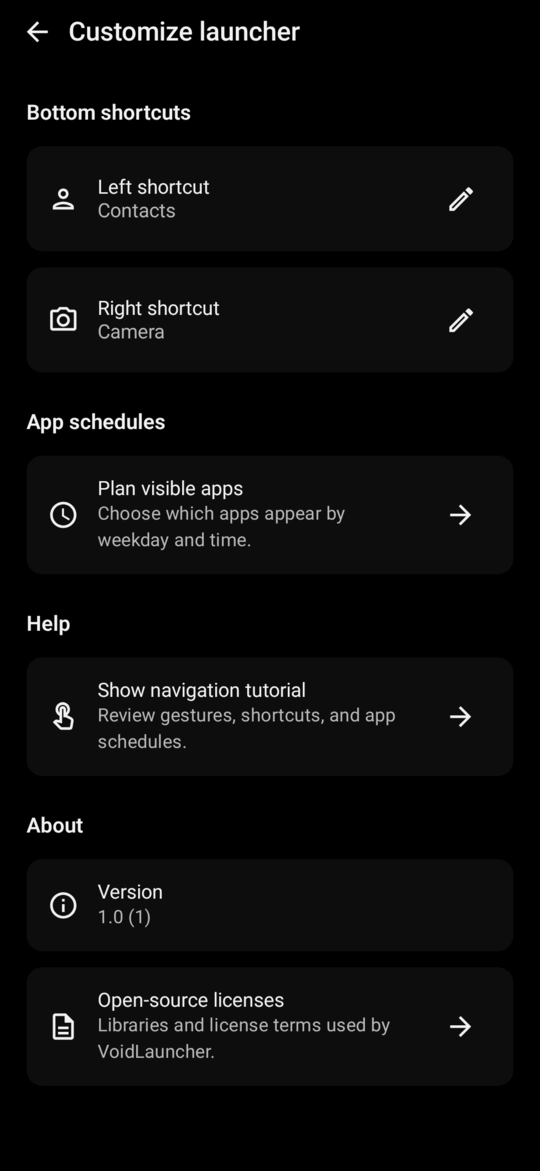
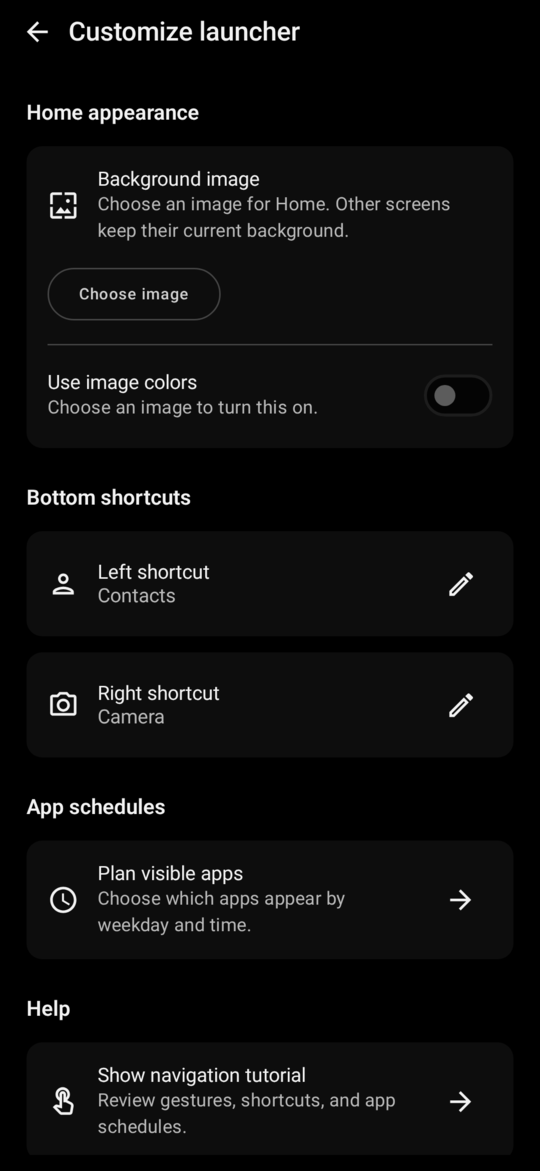
refactor: document current launcher architecture

diff --git a/README.md b/README.md
@@ -21,13 +21,13 @@
     <td width="25%"><img src="docs/images/readme/home.png" alt="VoidLauncher Home with chosen apps, search, and bottom shortcuts"></td>
     <td width="25%"><img src="docs/images/readme/drawer.png" alt="VoidLauncher app drawer with filtering and an alphabet rail"></td>
     <td width="25%"><img src="docs/images/readme/schedule.png" alt="VoidLauncher schedule editor with weekdays and a time range"></td>
-    <td width="25%"><img src="docs/images/readme/customize.png" alt="VoidLauncher customization screen with shortcuts and app schedules"></td>
+    <td width="25%"><img src="docs/images/readme/customize.png" alt="VoidLauncher customization screen with Home background controls, shortcuts, schedules, and tutorial"></td>
   </tr>
   <tr>
-    <td align="center"><sub>Home keeps the noise down.</sub></td>
-    <td align="center"><sub>Every app stays one action away.</sub></td>
+    <td align="center"><sub>Home shows the apps chosen for now.</sub></td>
+    <td align="center"><sub>Filter every installed app by name or letter.</sub></td>
     <td align="center"><sub>Schedules choose what appears and when.</sub></td>
-    <td align="center"><sub>Bottom shortcuts stay configurable.</sub></td>
+    <td align="center"><sub>Customize the background, shortcuts, schedules, and tutorial.</sub></td>
   </tr>
 </table>
 
@@ -36,6 +36,8 @@
 Most launchers treat every installed app as equally urgent. VoidLauncher does not.
 
 Home is a short list that you control. The complete app drawer is still one swipe away, and search can open an app or send a query to the browser, Play Store, or Maps. App schedules change the visible Home list by weekday and time. They decide what is prominent, never what remains accessible.
+
+Home can use a background image and tint its controls from the image colors. The first-run tutorial explains the gestures, bottom shortcuts, and schedules, and it can be opened again from customization.
 
 The app keeps its launcher state in a local Room database. It asks for no internet permission, account, or cloud service.
 
@@ -47,7 +49,9 @@ The app keeps its launcher state in a local Room database. It asks for no intern
 - Filters the full app drawer and jumps by letter with an alphabet rail
 - Renames, adds, removes, or uninstalls apps from launcher menus
 - Assigns the two bottom shortcuts to Contacts, Camera, or an installed app
-- Schedules different Home app sets for selected days and time ranges
+- Uses a selected image as the Home background, with optional image-derived colors
+- Schedules different Home app sets for selected days and time ranges, including overnight and all-day schedules
+- Shows a replayable tutorial for gestures, shortcuts, and schedules
 
 ## Build it
 
@@ -100,6 +104,12 @@ To rebuild only the logo from `design/void-launcher-icon.svg`:
 
 The preview definitions and their sample launcher state live in `app/src/screenshotTest/kotlin/com/tomasrepcik/voidlauncher/ReadmeScreenshotPreviews.kt`. Edit that file when a README screen or its sample content should change.
 
+## How it is built
+
+Each screen has a feature root, immutable UI state, a ViewModel, and Compose content. Compose renders state and sends user actions back to the ViewModel. Feature roots translate Navigation 3 events and delegate Android actions to a shared handler.
+
+Koin constructs every repository, ViewModel, domain rule, and Android adapter. It also provides dispatchers, the clock, and the app-owned coroutine scope. Feature ViewModels depend on narrow repositories for installed apps, Home apps, shortcuts, preferences, schedules, and startup status. Room stores one coherent launcher snapshot behind those repository contracts.
+
 ## Project map
 
 | Path                           | Purpose                                                         |
@@ -113,4 +123,4 @@ The preview definitions and their sample launcher state live in `app/src/screens
 | `docs/adr`                     | Architecture decisions                                          |
 | `scripts`                      | Reproducible documentation tooling                              |
 
-VoidLauncher is built with Kotlin, Jetpack Compose, Material 3, Navigation 3, Room, coroutines, and Detekt.
+VoidLauncher is built with Kotlin, Jetpack Compose, Material 3, Navigation 3, Room, Koin, coroutines, and Detekt.

diff --git a/AGENTS.md b/AGENTS.md
@@ -1,0 +1,65 @@
+# VoidLauncher
+
+## Project
+
+This project is a launcher for the Android with minimal and elegant gestures to navigate across
+the device with ease.
+
+On the other hand, the launcher is minimalistic and gives user only what it needs.
+It is not intended to show all apps, widgets and other stuff.
+It is intended to use gestures, keyboard and shortcuts to navigate.
+
+It should make life of user faster, less cluttered and distractive.
+
+## Coding style
+
+The simplicity is above all. The code should be simple, readable and verbose
+enough that it is simple to understand. Methods and logic parts should be small enough to skim through
+and have nuanced gaps between them.
+
+Everything is named by the intent of the user, and only major contracts can have names
+containing technical terms. Practically, the navigation in code is the navigation of the user.
+
+The app uses MVI architecture - UI is dumb, calls the ViewModel, and it orchestrates data sources and APIs.
+The ViewModel comes back with a state that is rendered by the UI. The state is immutable and contains all the data needed to render the UI.
+
+Every screen is its own module and cross-cutting concerns are in their own modules.
+The modules are small and have a single responsibility.
+Every screen has root composable, where the viewmodel and UI meet ends.
+The UI only talks to viewmodel, not repos. Repos and usecases are part of the viewmodels.
+UI is dumb and only renders the state. Root is responsible for delegating actions, events and
+native side effects - it can use other classes to do so.
+
+## Testing
+
+Every ViewModel and repo has its own tests on unit level.
+Fakes are only permitted and mocks only for third party implemenations, which
+would be hard to fake.
+
+Tests follow the same coding style as the main code and BDD - descriptions are composed of
+Given, When, Then and test contains these comments too as its id divided.
+
+Fixtures are used to create conditions for test executiona and ideally should be reused
+across tests.
+
+The tests should be simple and readable, ideally only one line per statement in the description of the test.
+
+Run only tests, which are required and at the end of large implementation, run the whole test suite.
+
+## Terminology
+
+- Screen / Root Screen - a screen is a module that contains all the code for a single screen. It has its own ViewModel, UI and repos. It is responsible for rendering the state and delegating actions to the ViewModel.
+- State - a state is an immutable data class that contains all the data needed to render the UI. It is returned by the ViewModel and rendered by the UI.
+- Action - an action is a user interaction that is delegated to the ViewModel. It can be a button click, a gesture, a keyboard shortcut, etc.
+- User intent - a user intent is a high-level action that the user wants to perform. It is translated into one or more actions that are delegated to the ViewModel. Naming is based on user intent, not technical terms. For example, "Open App" is a user intent, while "LaunchActivity" is a technical term. Contract between layers can be merged with technical term.
+- Contract - defines communication between layers. Techncial terms can be used for these classes too.
+- Repo - a repo is a class that is responsible for fetching data from a data source. It can be a local database, a remote API, or any other data source. It is used by the ViewModel to fetch data and return it as a state.
+- Usecase - a usecase is a class that contains business logic and orchestrates data from multiple repos. It is used by the ViewModel to perform complex actions and return a state. It equals to a user intention to do something.
+
+## People
+
+You are agent.
+Me as user I am programmer, and we are building this project in collaboration.
+Explain your ideas, ask questions, give suggestions and think about possible architectural improvements
+based on the current state of the project. Review the code and give feedback.
+Be straight and go to the point.

diff --git a/docs/adr/0003-use-narrow-feature-boundaries.md b/docs/adr/0003-use-narrow-feature-boundaries.md
@@ -25,6 +25,8 @@ Storage follows the same split. `InstalledAppsStorage`, `HomeAppsStorage`, `Shor
 
 Each feature keeps a root, immutable contract, ViewModel, screen, and supporting UI parts. The screen renders state and sends actions to its ViewModel. The ViewModel coordinates repositories and emits state, root actions, and typed navigation events. The root is the boundary where Compose meets the application. It collects state, maps feature navigation events to `LauncherNavigator`, and delegates native work to `LauncherRootActionHandler`.
 
+State used by more than one navigation entry has one owner above the back stack. `VoidLauncherApp` resolves `HomeAppearanceViewModel` once, collects its root actions once, and passes the same instance to Home and Customization. Navigation entries must not decode and retain separate copies of the same background bitmap.
+
 `LauncherNavigation` owns the back stack, route registration, and shared transition defaults. A route can override those defaults through its Navigation 3 entry metadata. The app drawer uses this route-owned metadata for its slower parallax and fade transition without changing motion on unrelated screens.
 
 Native interactions use `LauncherRootAction`. `LauncherRootActionHandler` invokes `LauncherActionExecutor`, reports unexpected failures, maps failures and recovery to user messages, and returns a handled result to the root. ViewModels do not construct Android intents or call Android APIs.
@@ -40,6 +42,8 @@ A ViewModel dependency list now describes the feature instead of the complete la
 Navigation decisions sit next to the feature event that caused them. The route table remains centralized and easy to scan, while a feature root owns the translation from user intent to destination. Route-specific animation can change independently of the global navigation motion.
 
 Native effects have one policy and one Android boundary, but feature roots remain responsible for deciding how handled results affect navigation or snackbars. Tests can exercise repository contracts without constructing unrelated dependencies.
+
+Home and Customization now share one decoded background image for the activity lifetime. Their entry-scoped ViewModels remain separate because their screen state and user actions are not shared.
 
 The split adds more files and Koin definitions. That cost is deliberate. Each main file has one reason to change, and the application can be read by following UI, ViewModel, repository, storage, and platform boundaries in order.
 
